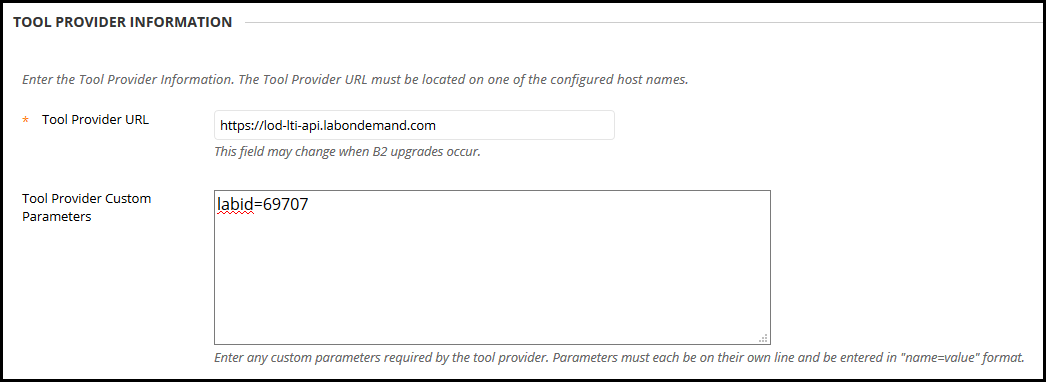
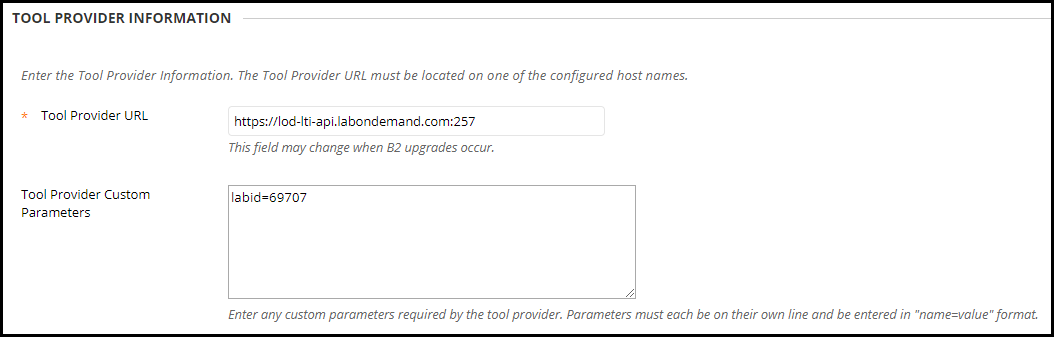
Update Screenshots for LTI LMS

diff --git a/lod/lti-1p3-lms-config.md b/lod/lti-1p3-lms-config.md
@@ -1,5 +1,7 @@
 ## LTI 1.3 Integration
 
+> [!alert] All letters in any given URL/URI should be lowercase. 
+
 - [Blackboard Integration](#blackboard-integration)
 - [Canvas Integration](#canvas-integration)
 
@@ -8,20 +10,28 @@
 #### Registering an Application
 
 1. Create a Lab on Demand API consumer and enable LTI 1.3 under the LTI tab. Keep this page open for reference.
+
 1. Visit https://developer.blackboard.com/ and register an account. Obtain access to the Learn on Demand Systems group for new accounts. An active admin can assist you with this.
+
 1. Select *My Apps* from the top level menu bar.
+
 1. Off to the right, under the main title is a *+* icon. Use this icon to register a new application.
     ![image-20200504103553670](images/blackboard-new-app.png)
+    
 1. On the Register a new application page, toggle the *My Integration supports LTI 1.3* option and fill in the information provided from the API consumer as follows. When configuring the URIs, please use all lower case letters.
-    ![image-20200504153356388](images/Blackboard-registering-app.png)
+    [!alert] When configuring the URIs, please use all lower case letters.
+    
+    ![image-20200511164845945](images/Blackboard-registering-app.png)
+    
     - Application Name: *LODS - API Consumer Name*
     - Description: Integrated Digital Learning eXperience
-    - Domain(s): labondemand.com
+    - Domain(s): lod-lti-api.labondemand.com:257 (replace 257 with the API Consumer ID)
     - Group: Learn on Demand Systems (may need permissions to access.)
     - Login Initiation URL: This is the LTI 1.3 Login / Connect URL
     - Tool Redirect URL(s): This is the *LTI 1.3 Launch URL*
     - Tool JWKS URL: Leave this field blank to generate a private key.
     - Signing Algorithm: RS256
+    
 1. When the app is successfully registered, you will receive the values need to finish configuring the LOD API Consumer. They consist of the following;
     - Application key: You can copy this into the consumer but is not required for LTI 1.3
     - Secret: You can copy this into the consumer but is not required for LTI 1.3
@@ -31,10 +41,14 @@
     - Auth token endpoint: LTI 1.3 Access Token URL
     - OIDC auth request endpoint: LTI 1.3 Authorize URL
     - Tool Private Key: Copy this into the Private Key field on the API Consumer.
+    
 1. Review all settings and save the Lab on Demand API consumer before closing out the above information. You will not be able to access this information again.
+
 1. Share the Application ID/Client ID with the Blackboard administrator so that they can complete the following section. 
 
 #### Register the Application Key
+
+> [!note] As a Blackboard administrator, you may need to enable LTI if this is the first LTI provider to be configured. You may read about it [here.](https://docs.blackboard.com/standards/LTI%20In%20Learn%20-%20Turn%20On%20All%20The%20Switches!)
 
 1. Under the System Admin page, select *LTI Tool Providers.*
     ![image-20200504142445873](images/blackboard-lti-provider.png)
@@ -64,10 +78,10 @@
     - Type: we recommend a *Course Content tool* that *Allows grading*
     - Launch in New Window: Blackboard works best when the lab is launched in a new tab/window
         ![image-20200504150128222](images/blackboard-placement-base-settings.png)
-    - Tool Provider URL: lod-lti-api.labondemand.com
+    - Tool Provider URL: lod-lti-api.labondemand.com:257 (replace 257 with the API Consumer ID)
     - Tool Provider Custom Parameters: labid=69707
         *In this example, 69707 is the Lab Profile ID of the Lab I will be using in a course.*
-        ![image-20200504150446720](images/blackboard-placement-lab-settings.png)
+        ![image-20200511165159738](images/blackboard-placement-lab-settings.png)
 
 #### Adding the Placement to the Course
 
@@ -91,7 +105,9 @@
 1. On the Developer Key page, select the blue drop down menu labeled +Developer Key and select +LTI Key.
     ![image-20200430130214256](images/canvas-developer-keys.png)
 
-1. On the Key Settings page, choose the Manual Entry method and fill in the information provided from the API consumer as follows. When configuring the URIs, please use all lower case letters.
+1. On the Key Settings page, choose the Manual Entry method and fill in the information provided from the API consumer as follows.
+
+    > [!alert] When configuring the URIs, please use all lower case letters.
 
     - Redirect URIs: This is the *LTI 1.3 Launch URL
     - Title: Learn on Demand Systems
